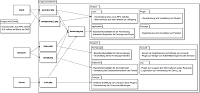
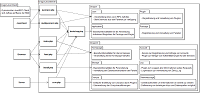
Diagramm zur Serverarchitektur auf den aktuellen Stand gebracht mit den Paketen Storage und Clientmessage

diff --git a/config/dragonx/homepage/news.php b/config/dragonx/homepage/news.php
@@ -22,6 +22,15 @@ return array(
     'perrow' => 2,
     'news' => array(
         array(
+            'title' => 'Version 1.2.2 zum Download verfügbar',
+            'content' =>
+                  'Die Version 1.2.2 ist abgeschlossen und als Download '
+                . 'verfügbar. In der Version wurde das Diagramm zur '
+                . 'Architektur auf den aktuellen Stand gebracht mit den '
+                . 'beiden Paketen Storage und Clientmessage.',
+            'timestamp' => 1345413861,
+        ),
+        array(
             'title' => 'Version 1.2.1 zum Download verfügbar',
             'content' =>
                   'Die Version 1.2.1 ist abgeschlossen und als Download '

diff --git a/config/dragon/application/application.php b/config/dragon/application/application.php
@@ -19,6 +19,6 @@
  */
 return array(
     'name' => 'DragonJsonServer',
-    'version' => 'v1.2.1',
+    'version' => 'v1.2.2',
     'copyright' => '(c) DragonProjects 2012',
 );
